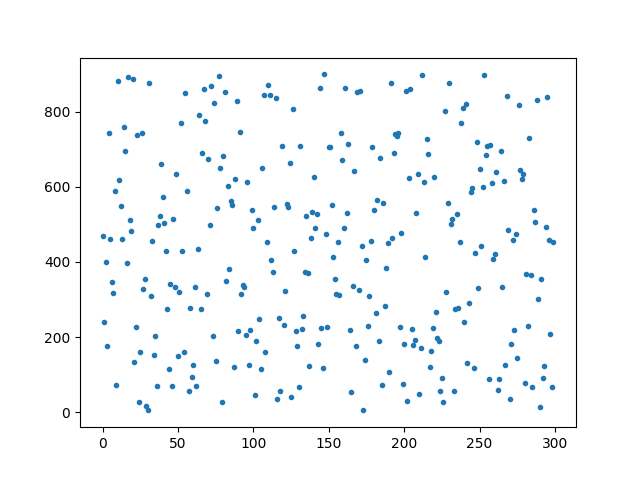
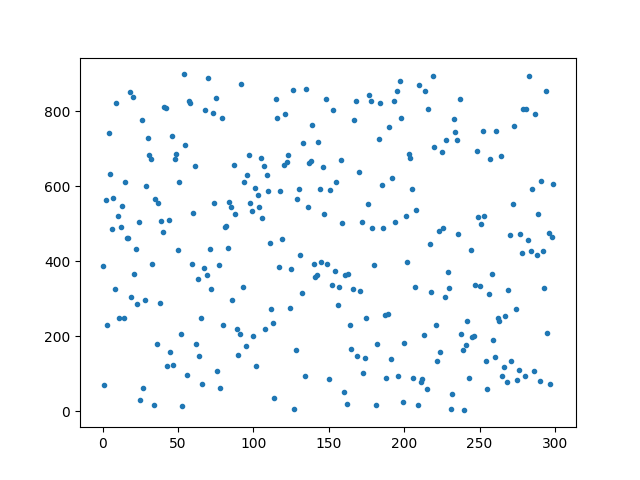
S6C1_end

diff --git a/S6C1/.ipynb_checkpoints/JimenezJuan_S6C1-checkpoint.py b/S6C1/.ipynb_checkpoints/JimenezJuan_S6C1-checkpoint.py
@@ -11,8 +11,9 @@ plt.savefig('aleatorios.png')
 plt.close()
 
 url='example2.txt'
-narray=np.loadtxt(url)
+narray1=np.loadtxt(url)
 
-plt.plot(narray,'.')
+plt.plot(narray,'-')
+plt.plot(narray1,'.')
 plt.savefig('aleatorios_con_impares.png')
 

diff --git a/S6C1/JimenezJuan_S6C1.py b/S6C1/JimenezJuan_S6C1.py
@@ -11,8 +11,9 @@ plt.savefig('aleatorios.png')
 plt.close()
 
 url='example2.txt'
-narray=np.loadtxt(url)
+narray1=np.loadtxt(url)
 
-plt.plot(narray,'.')
+plt.plot(narray,'-')
+plt.plot(narray1,'.')
 plt.savefig('aleatorios_con_impares.png')
 
